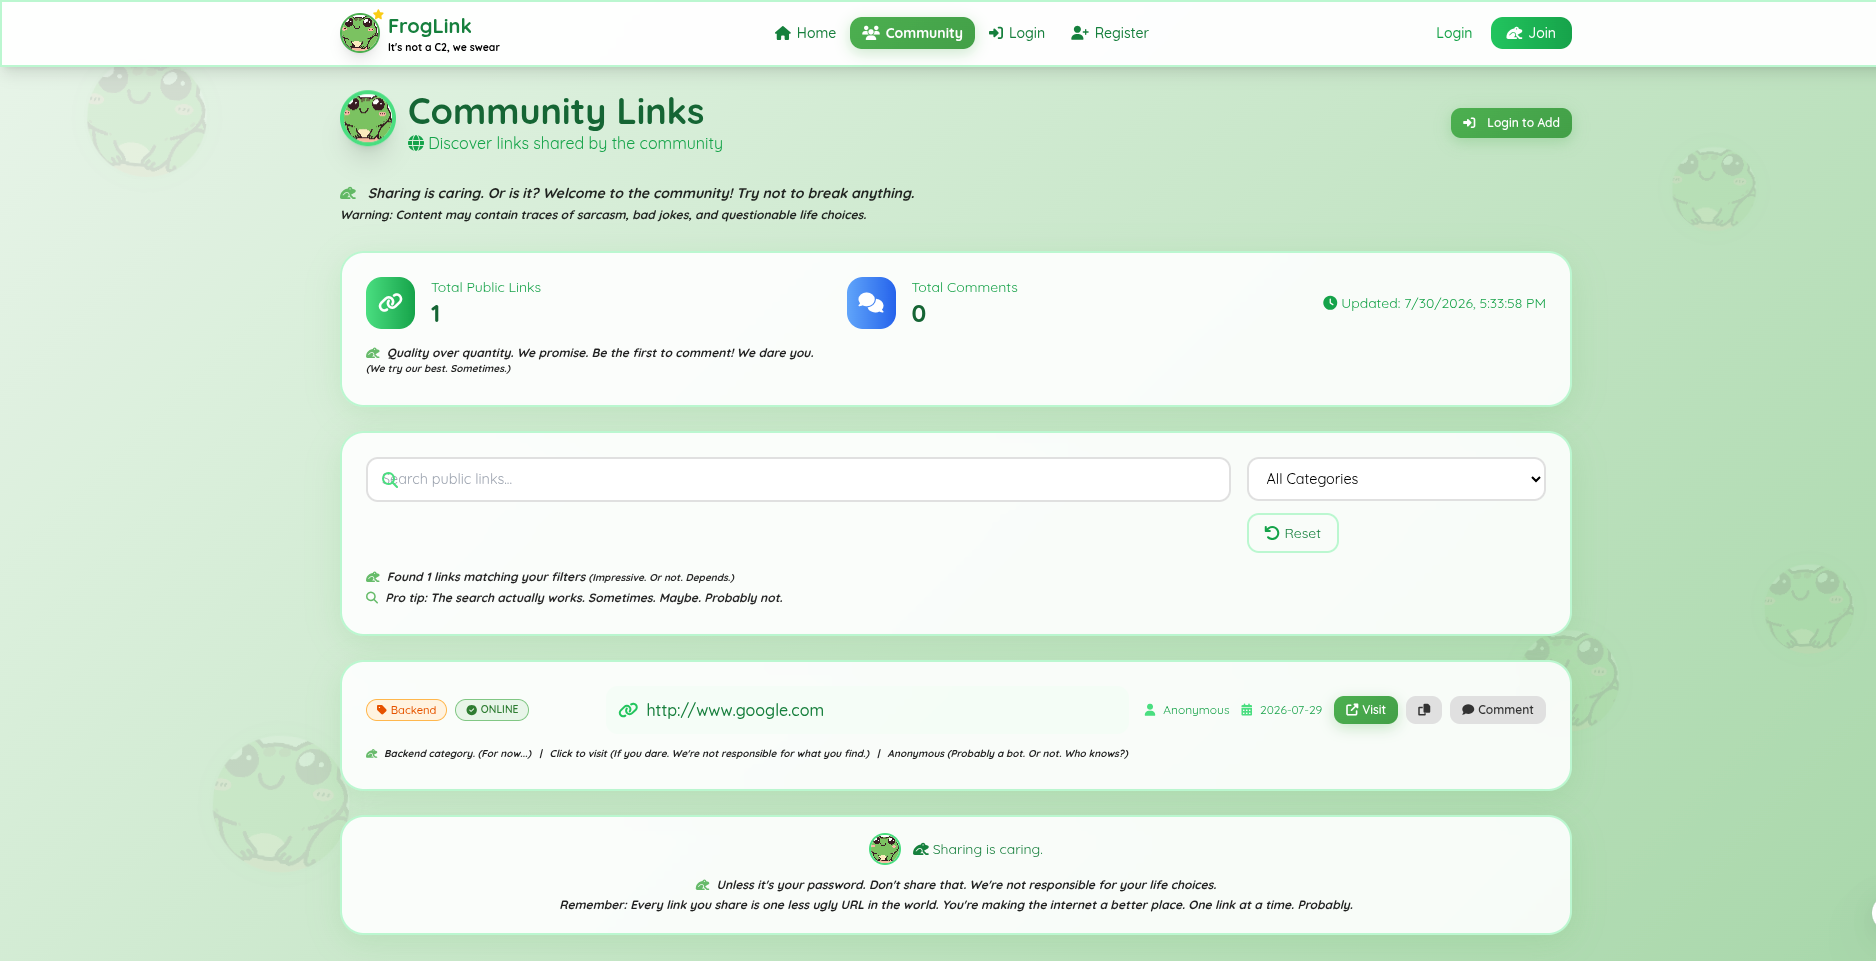
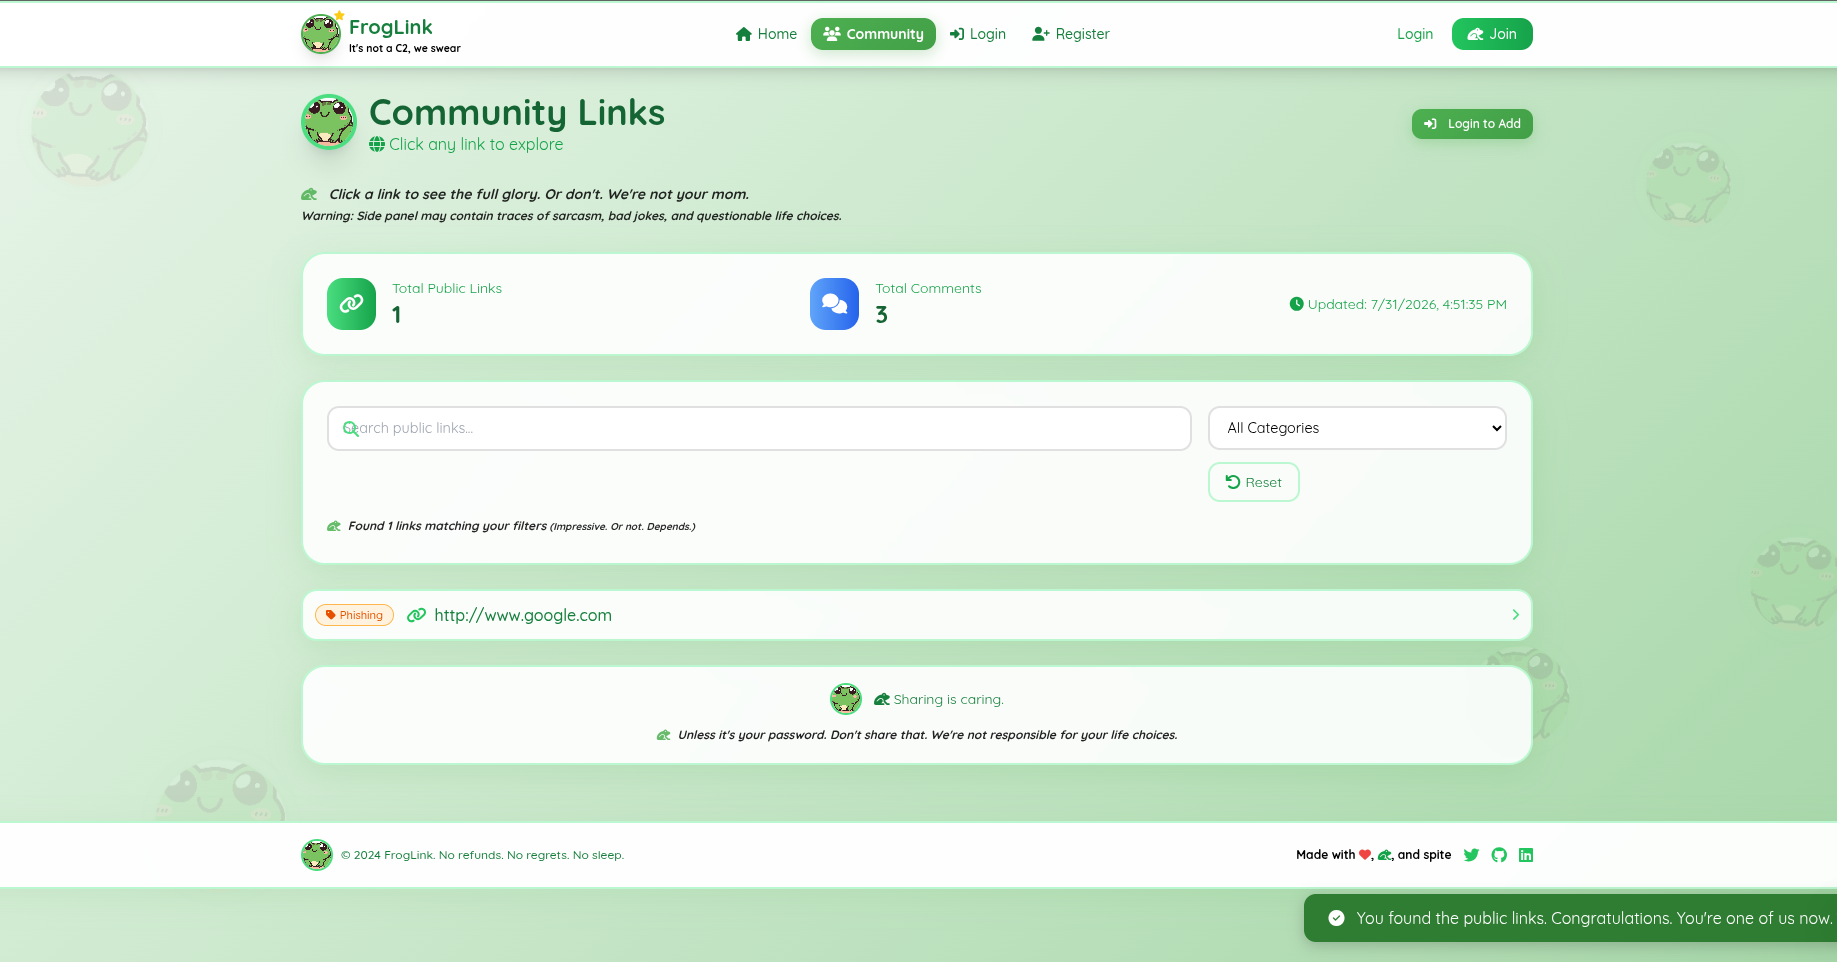
feat: Add endpoint to retrieve comments for a specific link

diff --git a/webApp/view/auth_view.py b/webApp/view/auth_view.py
@@ -519,9 +519,7 @@ def update_comment_reply(ID):
         session_manager.close()
 
 
-# ============================================================
-# GET COMMENTS FOR A LINK - ADD THIS ENDPOINT
-# ============================================================
+
 
 @auth_view.route("/api/comments/<string:link_id>", methods=['GET'])
 def get_comments(link_id):
@@ -564,3 +562,4 @@ def get_comments(link_id):
         return jsonify({'message': 'An error occurred while fetching comments'}), 500
     finally:
         session_manager.close()
+
